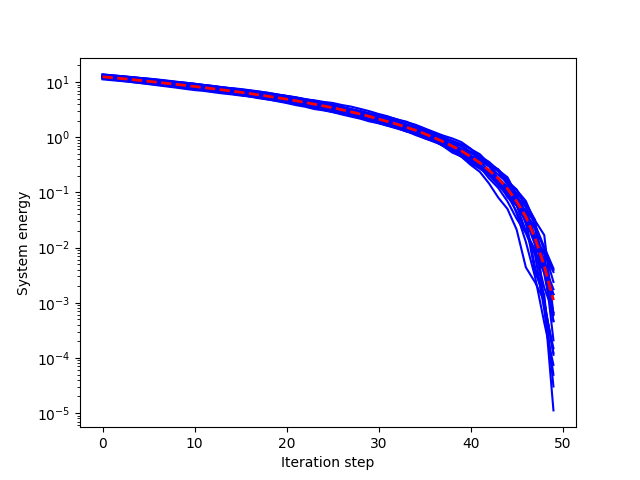
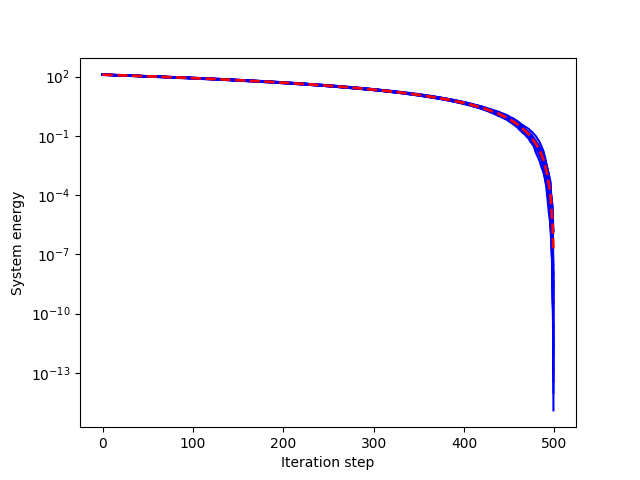
better quality pngs

diff --git a/parameters.py b/parameters.py
@@ -5,7 +5,7 @@ from tqdm import tqdm
 import seaborn as sns
 
 length=1000
-iterations=20
+iterations=100
 
 genen=np.zeros(int(length/2))
 gendist=[]
